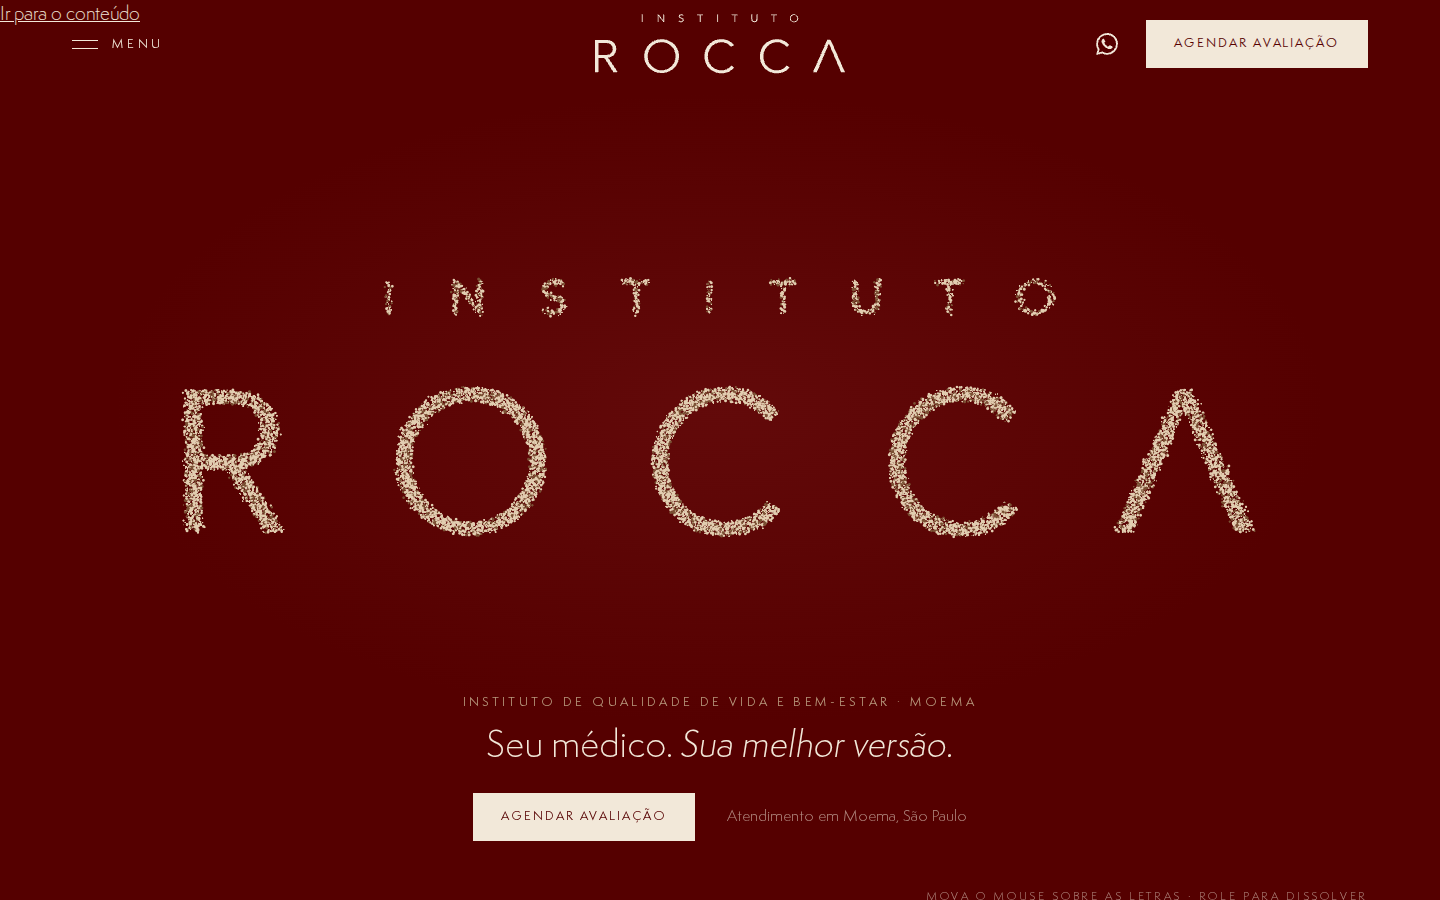
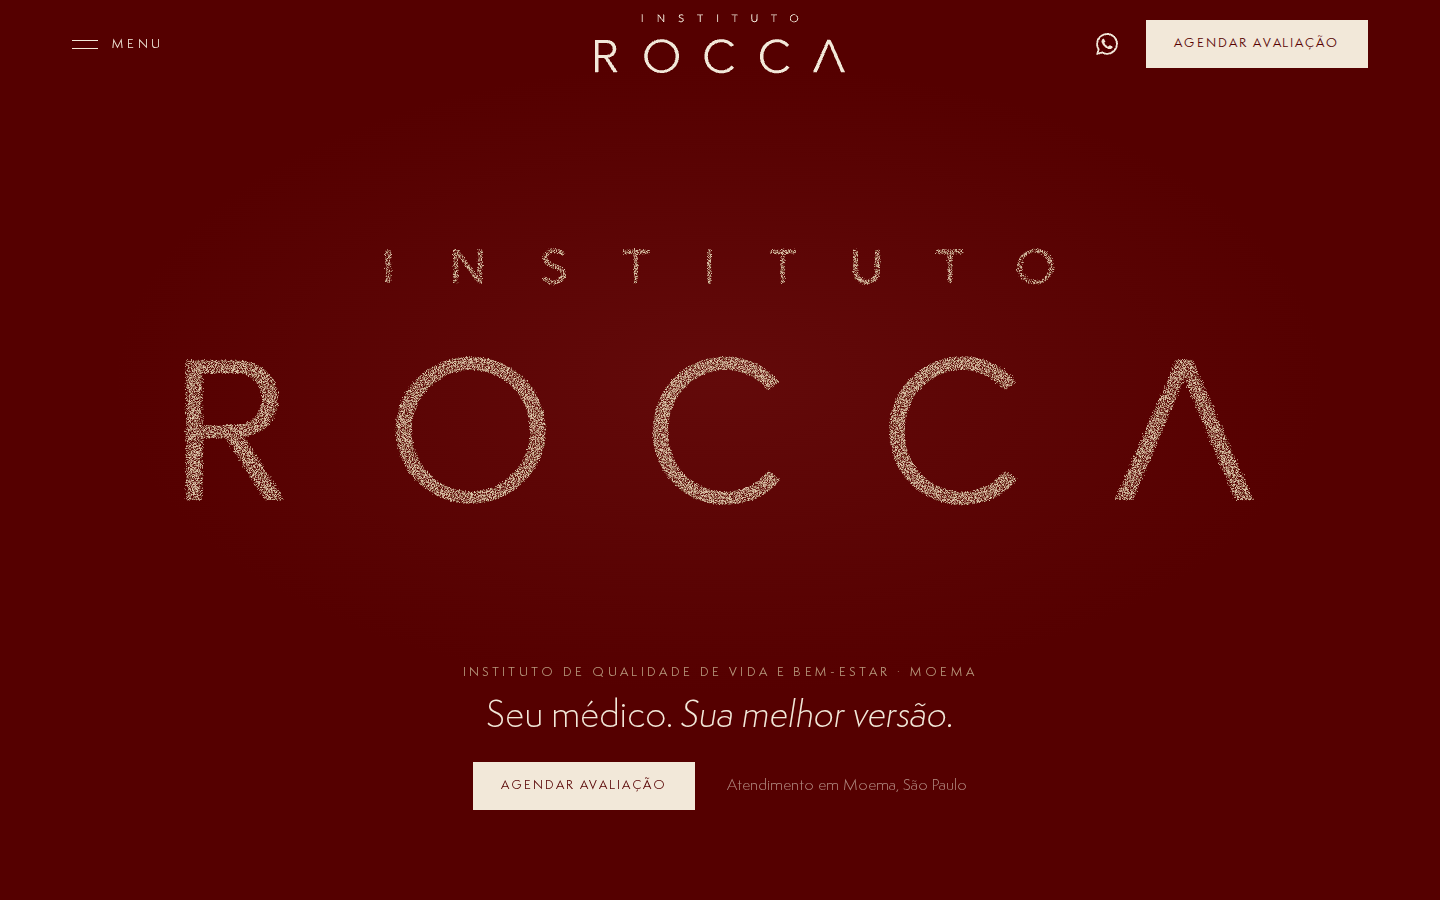
Links do site (GitHub Pages) e dos artifacts da rodada 3; capturas novas do 07
Claude-Session: https://claude.ai/code/session_01XdjUTf4CqwpAGPvLobMa3V

diff --git a/README.md b/README.md
@@ -17,17 +17,21 @@ gravação precisa entregar e a recomendação. **`BRIEF.md`** é o briefing cri
 
 ## Previews hospedadas
 
-| # | Conceito | Preview |
-|---|----------|---------|
-| 1 | **Matéria** | [abrir](https://claude.ai/code/artifact/d09b6cd9-5ef1-40ea-bce0-eb290422ddfb) |
-| 2 | **Chegada** | [abrir](https://claude.ai/code/artifact/78e9e269-6337-4588-b6b9-c7b2b8bdcc54) |
-| 3 | **Presença** | [abrir](https://claude.ai/code/artifact/29c238e3-20bf-4cc9-a0a2-cb13e84bb6bc) |
-| 4 | **Conversa** | [abrir](https://claude.ai/code/artifact/09347f2e-9418-45c6-972f-1f2748888485) |
-| 5 | **Símbolo** | [abrir](https://claude.ai/code/artifact/09a7a2bc-3761-40d6-9e07-b512ad29cdfd) |
-| 6 | **Slides** | [abrir](https://claude.ai/code/artifact/47d687a7-64e2-4817-97c3-d71b42522333) |
-| 7 | **Letras** (só o hero) | [abrir](https://claude.ai/code/artifact/396e8436-193e-4f84-bccf-efcceb4e8412) |
+**Site (GitHub Pages, o próprio repositório):** https://danzchohfi.github.io/institutorocca/ — o hub abre com as quatro
+versões campeãs; o scroll é o da página real, sem iframe. Precisa ser ativado uma vez pelo dono do repositório
+(Settings → Pages → Build and deployment → Source: **GitHub Actions**); a partir daí `.github/workflows/pages.yml`
+publica a cada push nesta branch (ou na `main`).
 
-Hub com os seis: [abrir](https://claude.ai/code/artifact/fccaed8e-d9d4-469b-aef8-2f9904fc4170).
+| # | Conceito | Site | Artifact (provisório, dentro de iframe) |
+|---|----------|------|------------------------------------------|
+| 7 | **Letras** · principal (só o hero) | [abrir](https://danzchohfi.github.io/institutorocca/concepts/07-letras/) | [abrir](https://claude.ai/code/artifact/396e8436-193e-4f84-bccf-efcceb4e8412) |
+| 1 | **Matéria** | [abrir](https://danzchohfi.github.io/institutorocca/concepts/01-materia/) | [abrir](https://claude.ai/code/artifact/9ce3eecf-c42e-4a56-88f8-39344acbf006) |
+| 2 | **Chegada** | [abrir](https://danzchohfi.github.io/institutorocca/concepts/02-chegada/) | [abrir](https://claude.ai/code/artifact/78e9e269-6337-4588-b6b9-c7b2b8bdcc54) |
+| 3 | **Presença** | [abrir](https://danzchohfi.github.io/institutorocca/concepts/03-presenca/) | [abrir](https://claude.ai/code/artifact/76784ada-e7ea-4b76-ab4e-79a09df19186) |
+
+Arquivo (rodada 1, sem os ajustes de scroll): 4 Conversa [abrir](https://claude.ai/code/artifact/09347f2e-9418-45c6-972f-1f2748888485) ·
+5 Símbolo [abrir](https://claude.ai/code/artifact/09a7a2bc-3761-40d6-9e07-b512ad29cdfd) ·
+6 Slides [abrir](https://claude.ai/code/artifact/47d687a7-64e2-4817-97c3-d71b42522333).
 
 Páginas privadas por padrão; compartilhe pelo menu da página. Geradas por `node scripts/build-artifacts.mjs` (cada conceito em um HTML único com fontes e imagens embutidas).
 

diff --git a/CONCEITOS.md b/CONCEITOS.md
@@ -6,17 +6,21 @@
 
 ## Previews hospedadas
 
-| # | Conceito | Preview |
-|---|----------|---------|
-| 1 | **Matéria** | [abrir](https://claude.ai/code/artifact/d09b6cd9-5ef1-40ea-bce0-eb290422ddfb) |
-| 2 | **Chegada** | [abrir](https://claude.ai/code/artifact/78e9e269-6337-4588-b6b9-c7b2b8bdcc54) |
-| 3 | **Presença** | [abrir](https://claude.ai/code/artifact/29c238e3-20bf-4cc9-a0a2-cb13e84bb6bc) |
-| 4 | **Conversa** | [abrir](https://claude.ai/code/artifact/09347f2e-9418-45c6-972f-1f2748888485) |
-| 5 | **Símbolo** | [abrir](https://claude.ai/code/artifact/09a7a2bc-3761-40d6-9e07-b512ad29cdfd) |
-| 6 | **Slides** | [abrir](https://claude.ai/code/artifact/47d687a7-64e2-4817-97c3-d71b42522333) |
-| 7 | **Letras** (só o hero) | [abrir](https://claude.ai/code/artifact/396e8436-193e-4f84-bccf-efcceb4e8412) |
+**Site (GitHub Pages, o próprio repositório):** https://danzchohfi.github.io/institutorocca/ — o hub abre com as quatro
+versões campeãs; o scroll é o da página real, sem iframe. Precisa ser ativado uma vez pelo dono do repositório
+(Settings → Pages → Build and deployment → Source: **GitHub Actions**); a partir daí `.github/workflows/pages.yml`
+publica a cada push nesta branch (ou na `main`).
 
-Hub com os seis: [abrir](https://claude.ai/code/artifact/fccaed8e-d9d4-469b-aef8-2f9904fc4170).
+| # | Conceito | Site | Artifact (provisório, dentro de iframe) |
+|---|----------|------|------------------------------------------|
+| 7 | **Letras** · principal (só o hero) | [abrir](https://danzchohfi.github.io/institutorocca/concepts/07-letras/) | [abrir](https://claude.ai/code/artifact/396e8436-193e-4f84-bccf-efcceb4e8412) |
+| 1 | **Matéria** | [abrir](https://danzchohfi.github.io/institutorocca/concepts/01-materia/) | [abrir](https://claude.ai/code/artifact/9ce3eecf-c42e-4a56-88f8-39344acbf006) |
+| 2 | **Chegada** | [abrir](https://danzchohfi.github.io/institutorocca/concepts/02-chegada/) | [abrir](https://claude.ai/code/artifact/78e9e269-6337-4588-b6b9-c7b2b8bdcc54) |
+| 3 | **Presença** | [abrir](https://danzchohfi.github.io/institutorocca/concepts/03-presenca/) | [abrir](https://claude.ai/code/artifact/76784ada-e7ea-4b76-ab4e-79a09df19186) |
+
+Arquivo (rodada 1, sem os ajustes de scroll): 4 Conversa [abrir](https://claude.ai/code/artifact/09347f2e-9418-45c6-972f-1f2748888485) ·
+5 Símbolo [abrir](https://claude.ai/code/artifact/09a7a2bc-3761-40d6-9e07-b512ad29cdfd) ·
+6 Slides [abrir](https://claude.ai/code/artifact/47d687a7-64e2-4817-97c3-d71b42522333).
 
 Páginas privadas por padrão; compartilhe pelo menu da página. Geradas por `node scripts/build-artifacts.mjs` (cada conceito em um HTML único com fontes e imagens embutidas).
 
